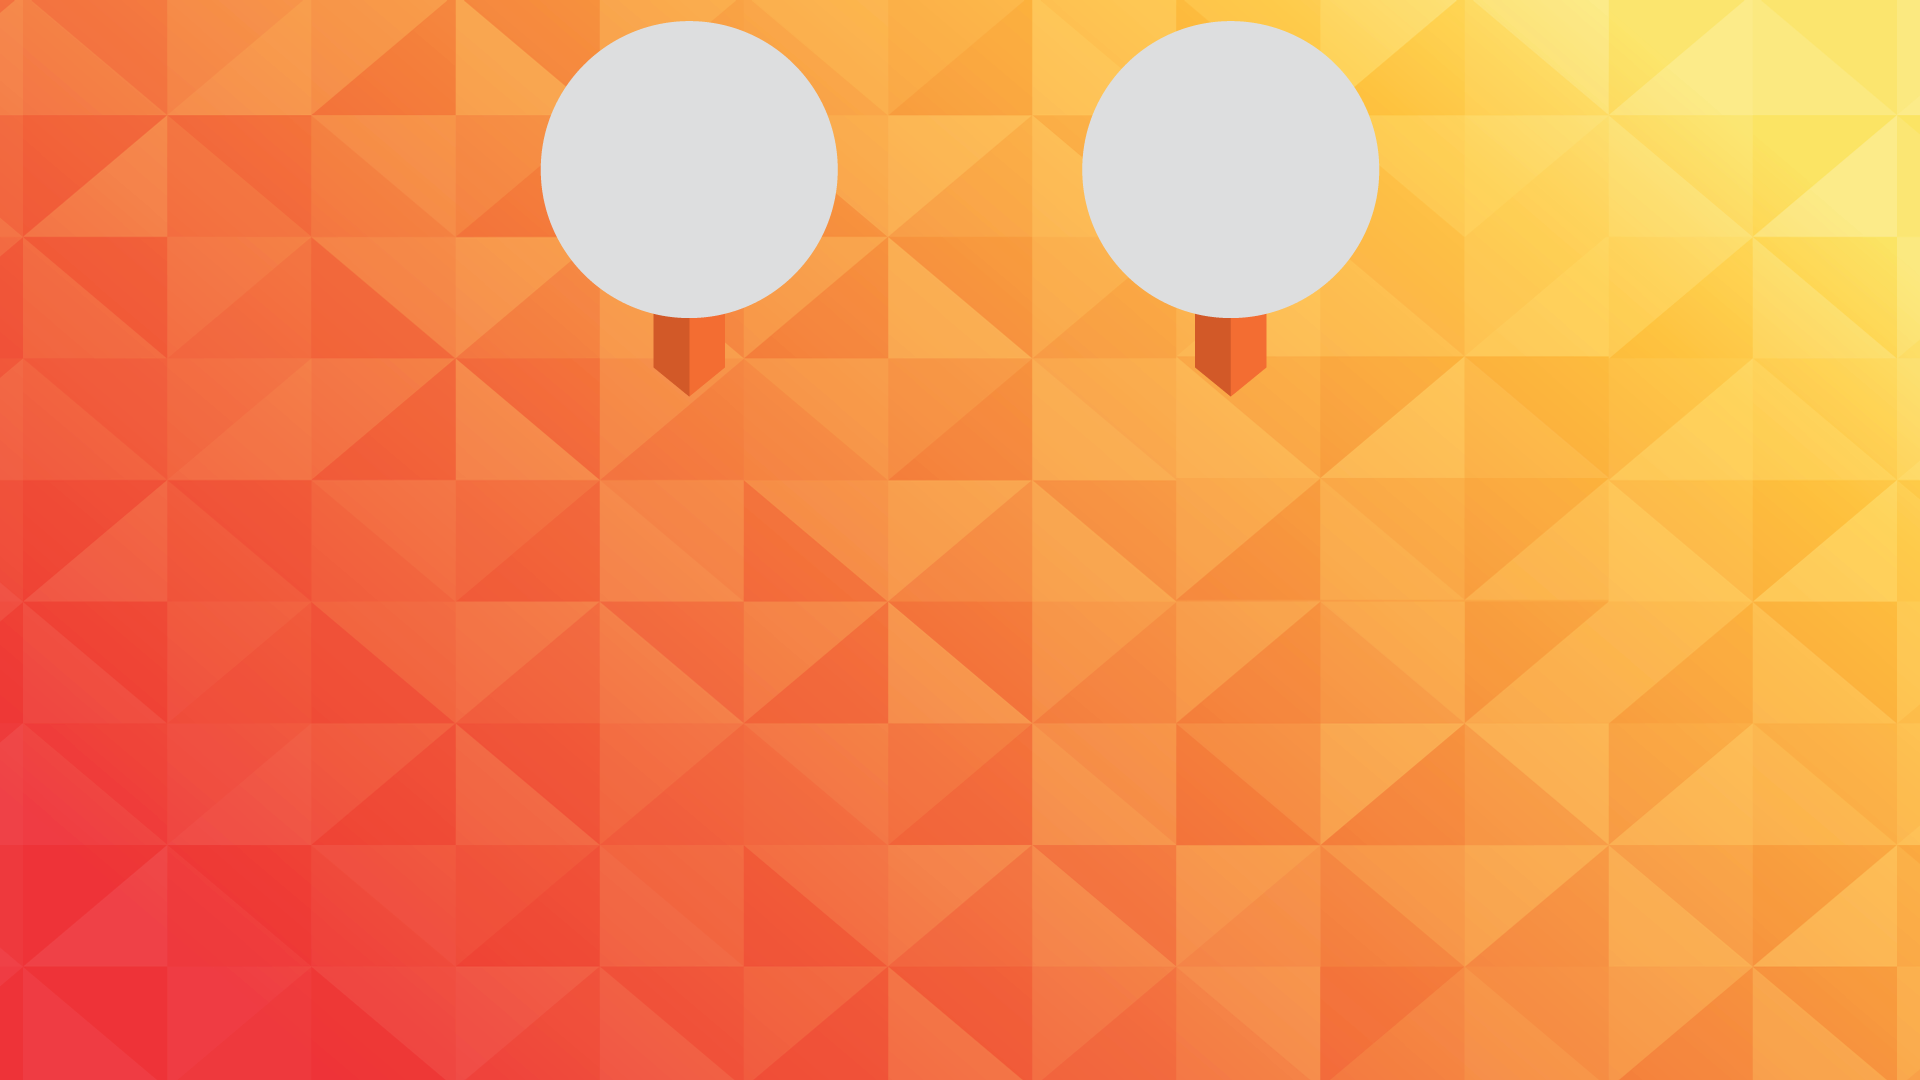
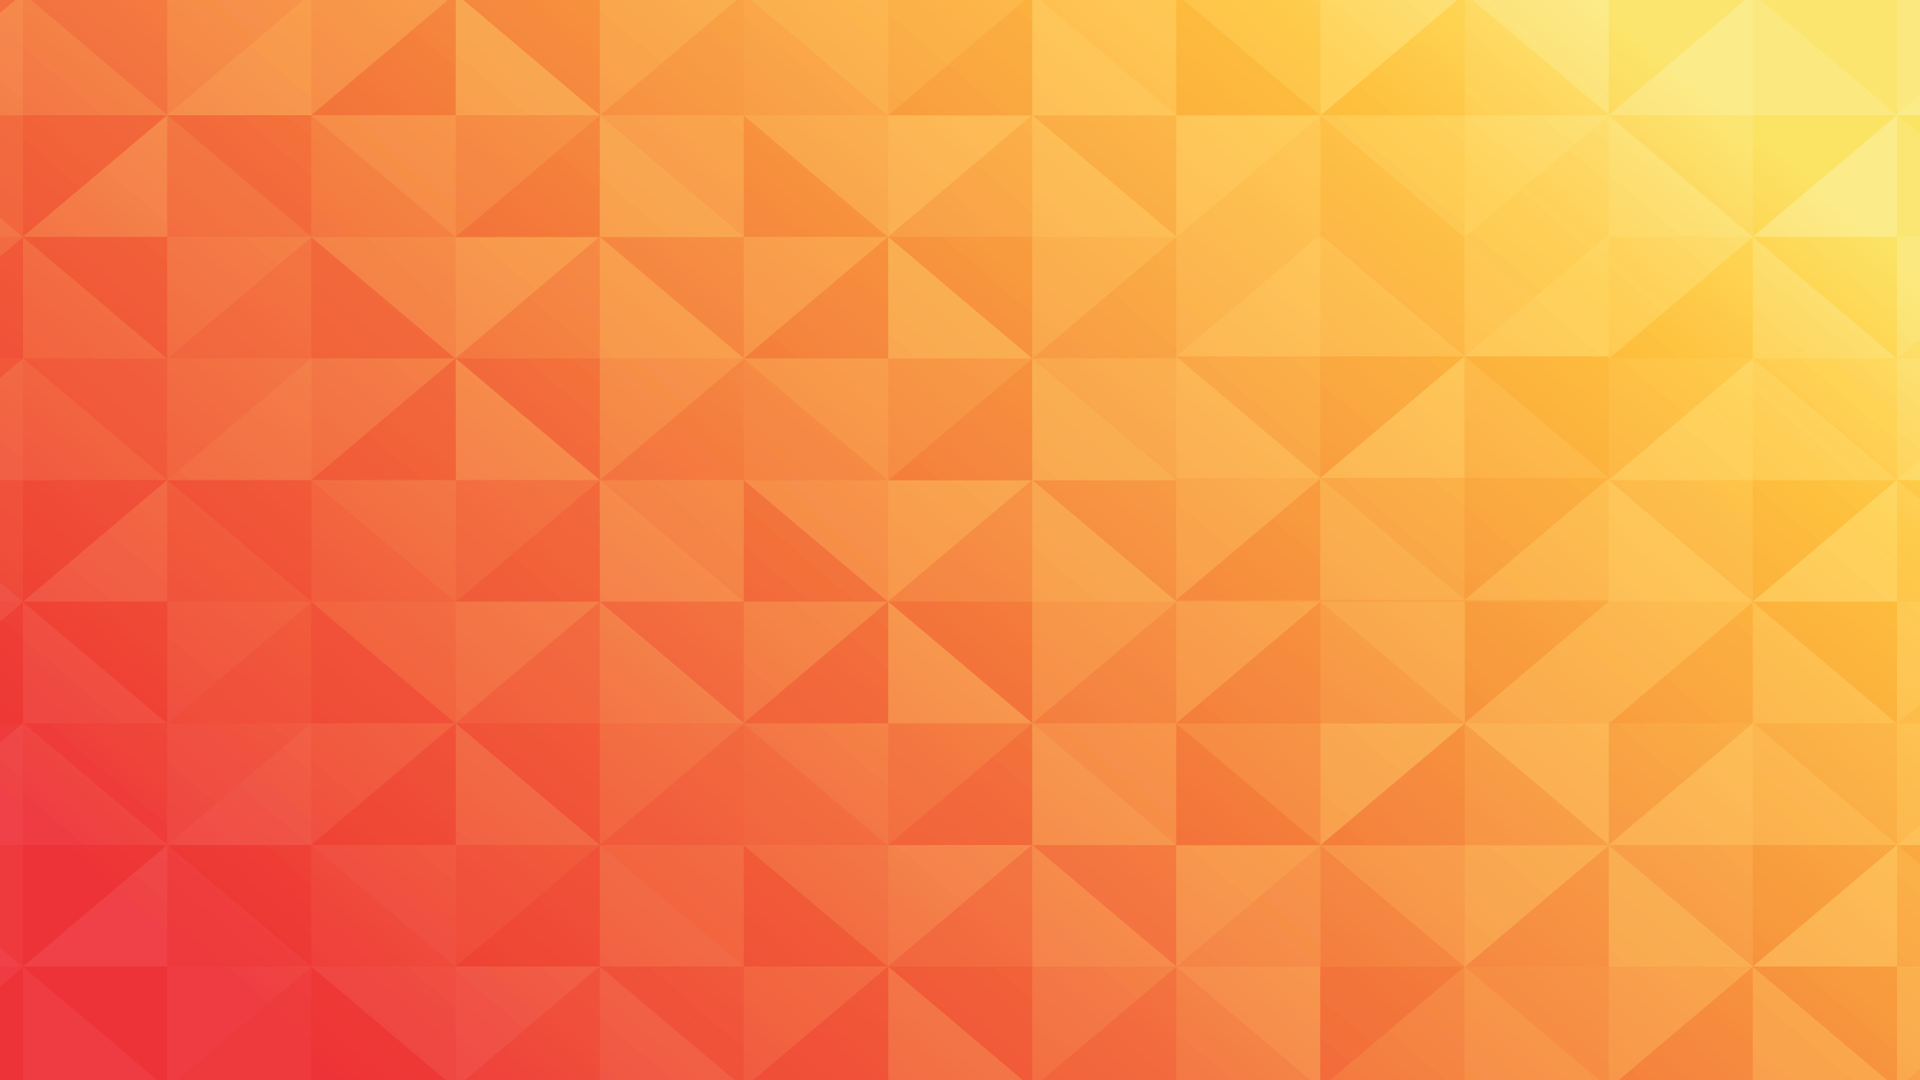
Commit by Adi at 01:22PM 01/11/2018

Changed region(s): [[0.5625, 0.0, 0.7188, 0.3667], [0.2812, 0.0, 0.4375, 0.3667]]

diff --git a/index.html b/index.html
@@ -61,25 +61,27 @@
                     <!-- Home Page Content -->
                     <div class="home-content container">
                         <div class="home-text">
-                            <div class="container hs-cont" style="margin-top: 310px;">
+                            <div class="container hs-cont">
                                 
                                 <!-- Headings -->
                                 <div class="">
                                     
-                                   <div class="hs-line-4 mb-20 animate-init" data-anim-type="fade-in-down-big" data-anim-delay="400">
+                                   <div class="hs-line-4 animate-init" data-anim-type="fade-in-down-big" data-anim-delay="400">
+                                        <img src="images/pin.png" class="sww-pin">
                                         <a href="http://studyww.com/" target="_blank"><img src="images/sww.png" class="sww-logo"></a>
+                                        <img src="images/pin.png" class="tpit-pin">
                                         <a href="http://www.technoplusit.com.au/" target="_blank"><img src="images/tpit.png" class="tpit-logo"></a>
                                     </div>
                                     
                                     <!-- <div class="hs-line-5 animate-init" data-anim-type="flip-in-top-front" data-anim-delay="800">
                                         future<span class="plus"><sup>+</sup></span>
                                     </div> -->
-                                    <img src="images/sis-con.png" class=" animate-init sis-con" data-anim-type="fade-in-right-big" data-anim-delay="1200" >
+                                    <img src="images/sis-con.png" class="img-responsive animate-init sis-con" data-anim-type="fade-in-right-big" data-anim-delay="1200" >
                                     <!-- <hr class="white animate-init" data-anim-type="fade-in-right-big" data-anim-delay="1200" /> -->
                                     
                                     <div class="local-scroll animate-init" data-anim-type="fade-in-up-large" data-anim-delay="1600">
                                         
-                                        <img src="images/fp.png" class="fp">
+                                        <img src="images/fp.png" class="fp image-responcive">
                                         
                                     </div>
                                     

diff --git a/css/my-custom.css b/css/my-custom.css
@@ -18,21 +18,64 @@
 
 .sww-logo{
 	width: 250px;
-	transform: translate(-60%, -240%);
+	transform: translate(-55%, -100%);
+	transition: 0.5s ease;
+}
+
+.sww-logo:hover{
+	transform: translate(-55%, -110%);
 }
 
 .tpit-logo{
 	width: 250px;
-	transform: translate(55%, -315%);
+	transform: translate(-65%, -135%)
+}
+
+.tpit-logo:hover{
+	transform: translate(-65%, -145%);
+	transition: 0.5s ease;
 }
 
 .sis-con{
+	display: inline-block;
 	width: 650px;
 	margin-top: -61px;
 	/*transform: translate(-0%, -15%);*/
 }
 
 .fp{
-    width: 210px;
-    transform: translate(0%, 2%);
+    width: 15%;
+}
+
+.sww-pin{
+	transform: translate(50%, -17%);
+}
+
+.tpit-pin{
+	transform: translate(40%, -17%);
+}
+
+@media screen and (max-width: 1200px) {
+    .sww-pin{
+    	transform: translate(10%, -17%);
+    }
+
+    .sww-logo{
+    	width: 250px;
+    	transform: translate(-105%, -100%);
+    }
+
+    .tpit-pin {
+        transform: translate(0%, -17%);
+    }
+
+    .tpit-logo {
+        width: 250px;
+        transform: translate(110%, -445%);
+    }
+
+    .sis-con{
+    	margin-top: -141px;
+    }
+
 }
